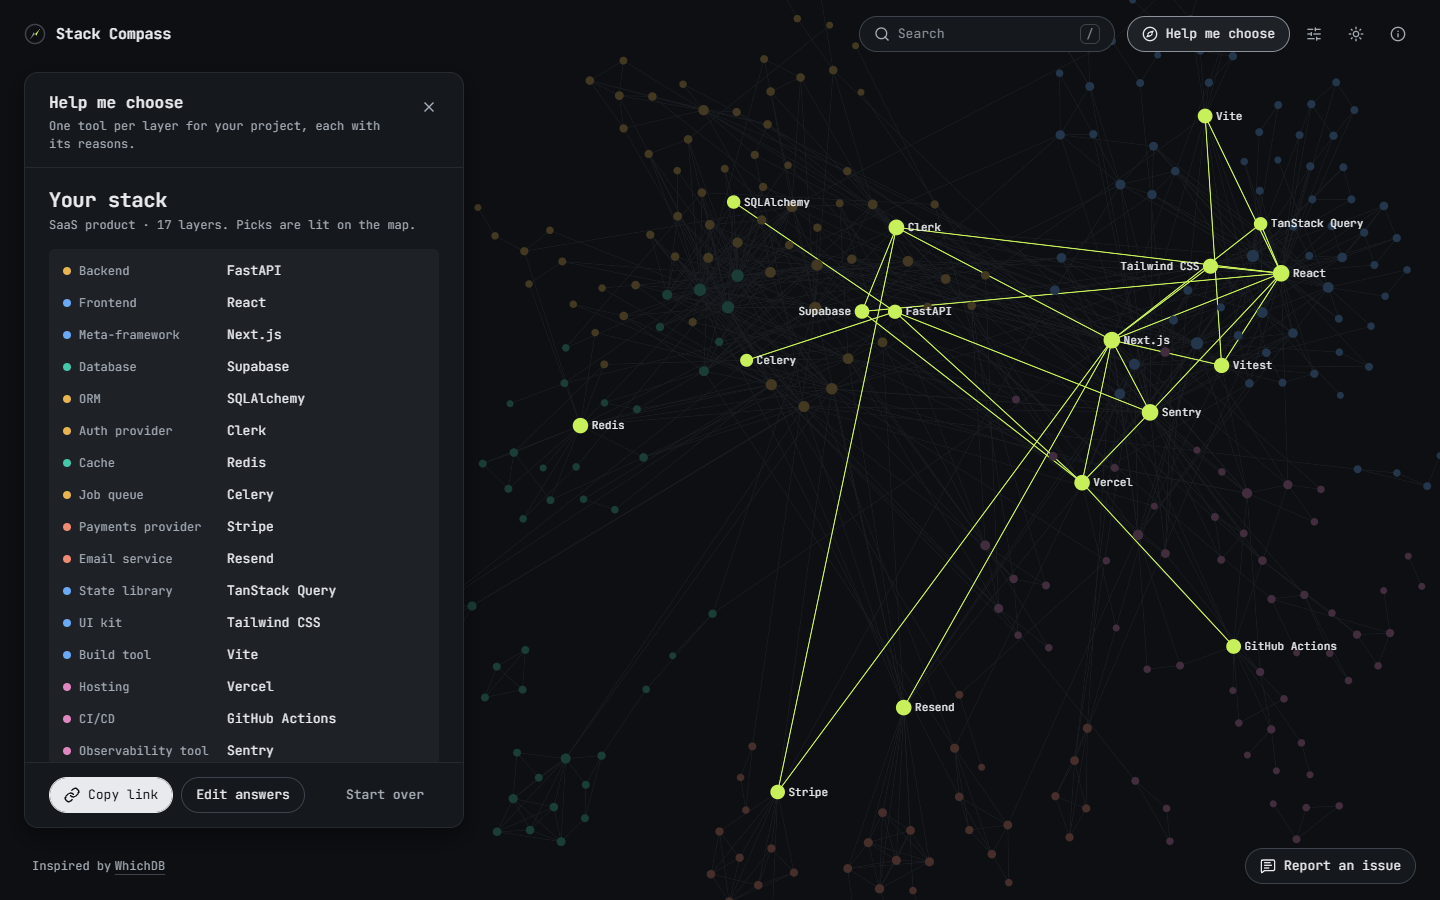
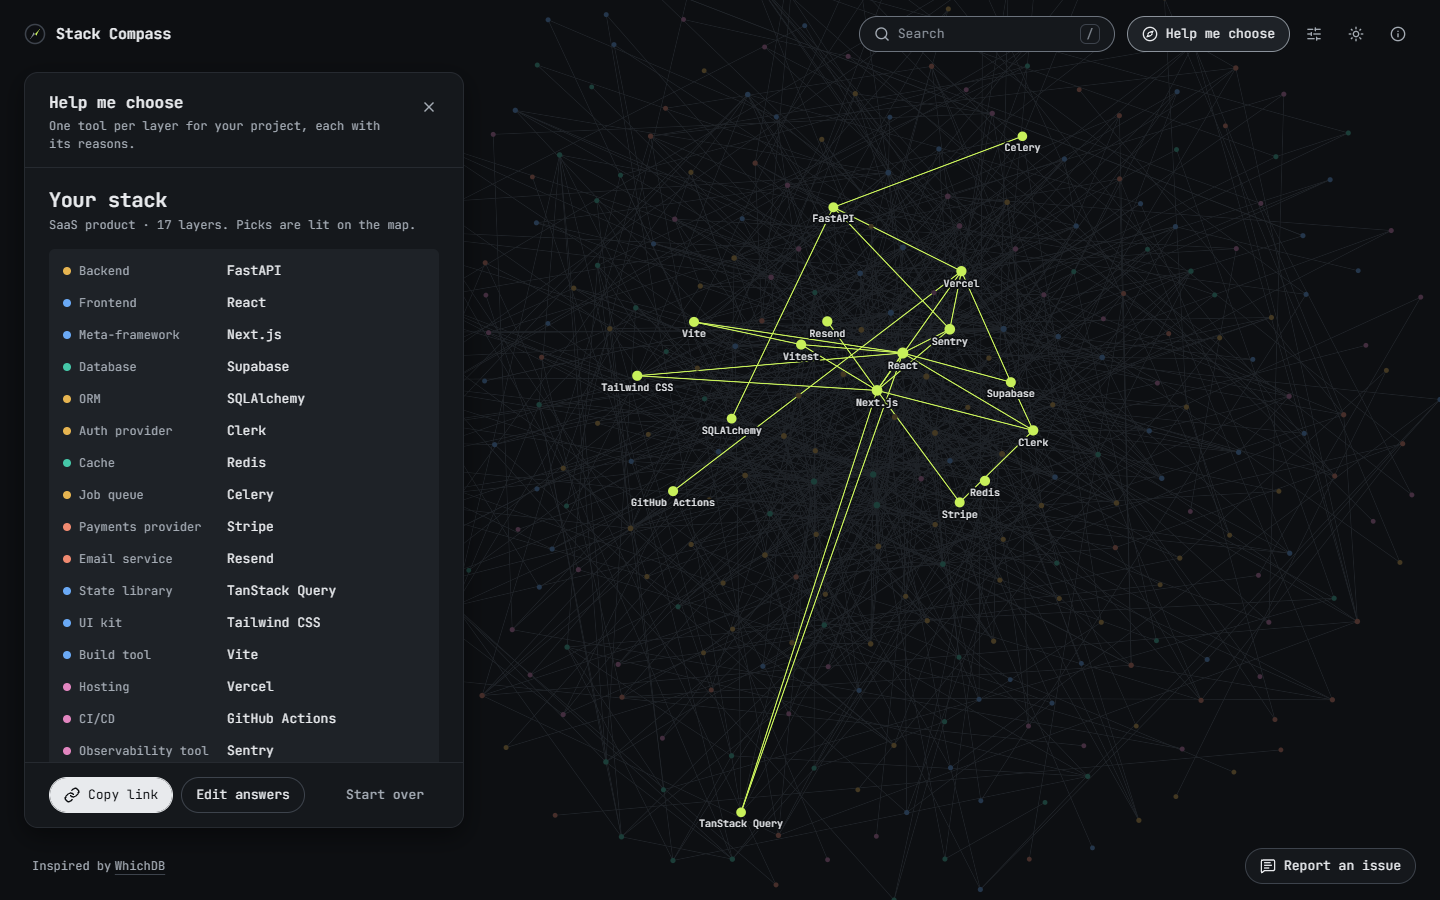
docs: phase 2 readme and screenshot

diff --git a/README.md b/README.md
@@ -61,6 +61,12 @@ flowchart LR
 
 More detail, including what each part does and what the tests cover: [docs/architecture.md](docs/architecture.md).
 
+## The map
+
+- **Layout.** `web/scripts/layout.mjs` places every tool once, at build time, so the map looks the same on every visit. Tools start from positions seeded by their id, then ForceAtlas2 settles them along the catalog's edges into one round tangle. Edges between layer families pull harder than edges inside a family, so families mix through the map instead of gathering in sectors. Tools whose names would overlap are nudged apart. `npm --prefix web run layout -- --check` fails CI when the committed file is stale.
+- **Drawing.** Small dots coloured by layer family, a name centred under nearly every dot at the default zoom on a desktop screen, and thin grey edges. Hovering or opening a tool brightens its neighbours and dims the rest. A recommended stack is drawn in the accent colour with heavier edges between the picks.
+- **Motion.** Short and quiet, using transform and opacity only. When a result appears, the picks light up one after another in the order they were scored, all within 480 ms, changing only colour, size and label. The camera glides for 280 ms to a tool you open or to frame a new stack, and stops as soon as you touch the map. The tool panel and the Help me choose sheet slide in from their own side in 200 ms and leave in 160 ms; the filters popover grows from its button; buttons give slightly when pressed. Typing, arrow keys, wheel and pinch zoom never animate. With reduced motion turned on in the system settings, every one of these changes happens at once. All durations live in `web/src/styles/tokens.css`, and a test fails on a duration written anywhere else.
+
 ## How recommendations work
 
 1. **Describe (optional).** Your text is lowercased and split into words, and phrases from a fixed list of 162 keyword entries are found on word boundaries, longest match first. Tool names and their aliases count too, also inside a longer phrase ("a Flutter app" names Flutter). Only a backend, ORM, API-style or job-queue tool sets languages, and only when it uses at most two language families ("django" means Python, "Spring Boot" means Java and Kotlin, "NestJS" means TypeScript and JavaScript; a service with SDKs in many languages sets none); naming any other tool, such as Flutter or React, only marks it as a tool you know. A language you type yourself ("in Swift") always counts. A match with "no", "not", "without", "avoid", "except", "nothing", "don't" or a similar word up to three words before it becomes an exclusion. Filler words such as "want", "to", "use" and "in" are not counted, so "I don't want to use Node" avoids JavaScript and "nothing in Java" avoids Java. The look-back stops at commas, full stops and the words "but" and "however", so "no PHP but Python" avoids PHP and still prefers Python. An API project ("a REST API", "build an API in Go") also gets the REST API feature, unless the text names GraphQL or an API-style tool; picking API only by hand ticks it too, and you can untick it. You see what was picked up as removable chips. The text stays in the page: it is never sent anywhere and never goes into a link.
@@ -110,9 +116,9 @@ Measured on 2026-11-14 on Windows 11 Pro, Intel Core i7-12700H, 16 GB RAM, Pytho
 
 **Golden set**: 36 of 36 cases pass (100%). Each case is a written project description with checks on the result, for example "backend language is Python", "payments pick is Stripe", "no PHP tool picked". Cases are in `web/src/engine/golden.cases.ts`. Command: `npm --prefix web run golden` (40 tests: the 36 cases plus 4 checks on the set itself).
 
-**Tests**: 65 Python tests (`uv run pytest`) and 330 web tests in 23 files (`npm --prefix web test -- --run`), all passing.
+**Tests**: 65 Python tests (`uv run pytest`) and 374 web tests in 27 files (`npm --prefix web test -- --run`), all passing.
 
-**Links**: 1017 URLs checked, 0 failed. Command: `uv run python -m compassdata.check_links`
+**Links**: 1031 URLs checked, 0 failed. Command: `uv run python -m compassdata.check_links`
 
 ## Suggest an edit
 
@@ -131,7 +137,6 @@ Open a tool on the map and choose **Suggest an edit**, or use **Report an issue*
 
 Planned, not built yet:
 
-- Motion: camera glides on the map, a sliding panel and picks lighting up in layer order, all off when the system asks for reduced motion.
 - Live GitHub stars and latest versions, fetched at build time with a weekly scheduled rebuild.
 - More tools in every layer.
 - A preview image for each shared result, so a link shows the stack it holds.

diff --git a/docs/architecture.md b/docs/architecture.md
@@ -52,9 +52,10 @@ flowchart LR
 | Engine | `web/src/engine/` | Pure TypeScript: matcher, layer selection, scoring, explanations, share-link encoding. No React, fully unit tested. |
 | Map | `web/src/components/graph/` | sigma.js and graphology, loaded in their own chunk after the shell paints. Falls back to the table view without WebGL. |
 | Screens | `web/src/components/` | Top bar, search, filters, tool panel, table view, Help me choose sheet. |
+| Motion | `web/src/styles/tokens.css`, `web/src/styles/motion.css`, `web/src/lib/motion.ts` | Duration and easing tokens, the CSS classes for sheets, popovers and presses, and the frame loop for the map camera and the pick sequence. Reduced motion sets every duration to 0. |
 
 ## Tests
 
 - `uv run pytest`: the validator against fixtures (every rule), the real catalog (valid, fresh, per-layer counts, total), the stats module.
-- `npm --prefix web test -- --run`: the engine (every scoring rule, negation, round trips of share links including tampered ones), the golden set of 36 written project descriptions, the screens through Testing Library, and a scan of `web/src` and `data/` for banned UI patterns and dash characters.
+- `npm --prefix web test -- --run`: the engine (every scoring rule, negation, round trips of share links including tampered ones), the golden set of 36 written project descriptions, the screens through Testing Library, the motion helpers (stagger timing, reduced motion), and a scan of `web/src` and `data/` for banned UI patterns and dash characters.
 - CI (`.github/workflows/ci.yml`) runs both, plus lint, the catalog and layout freshness checks, and the production build.
